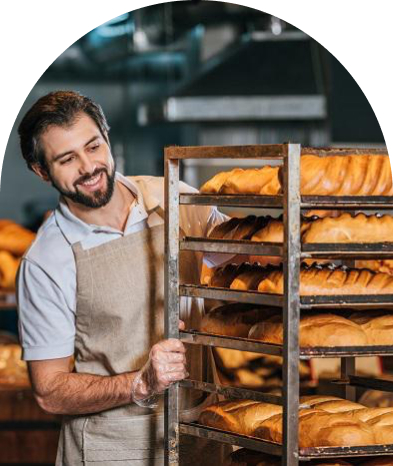
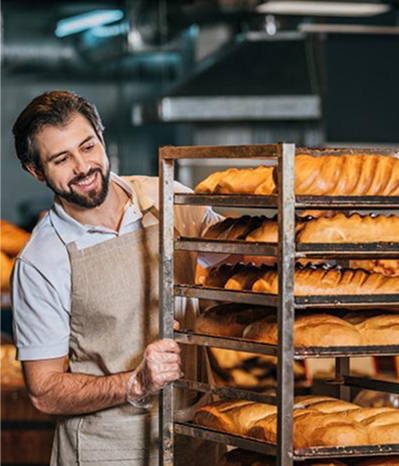
section traditions ready - html+css

diff --git a/index.html b/index.html
@@ -50,17 +50,27 @@
                 </ul>
             </div>
         </section>
-        <section>
-
-            <h2>Новий формат традиций</h2>
-            <p><span>shop bakery</span> — це пекарня, яка взяла все найкраще, і зберегла смак традиційної випічки та
-                натуральність інгредієнтів.</p>
-            <p>Ми працюємо як найвідоміші мережі —
-                <span>5 хвилин і замовлення готове.</span>
-                А ще у наших пекарень стильний дизайн
-                та висока якість обслуговування!
-            </p>
-            <img src="./images/baker-man.jpg" alt="Чоловік-пекарь дівітся на батон с посмішкой">
+        <section class="section-traditions">
+            <div class="container container-traditions">
+                <div class="traditions-descr">
+                    <h2 class="header-traditions">Новий формат традиций</h2>
+                    <p class="text-traditions"><span class="span-traditions">shop bakery</span> — це пекарня, яка взяла
+                        все
+                        найкраще, і зберегла смак традиційної випічки та
+                        натуральність інгредієнтів.</p>
+                    <div class="text-traditions-list">
+                        <p class="text-traditions">Ми працюємо як найвідоміші мережі —</p>
+                        <span class="span-traditions second-span">5 хвилин і замовлення готове.</span>
+                        <p class="text-traditions">А ще у наших пекарень стильний дизайн</p>
+                        <p class="text-traditions">та висока якість обслуговування!
+                        </p>
+                    </div>
+                </div>
+                <div class="traditions-img-block">
+                    <img class="img-traditions" src="./images/baker-man.jpg"
+                        alt="Чоловік-пекарь дівітся на батон с посмішкой">
+                </div>
+            </div>
         </section>
         <section>
             <h2>Наши найкращи шеф-кухари</h2>

diff --git a/css/styles.css b/css/styles.css
@@ -126,7 +126,12 @@ img {
   max-width: 1440px;
   padding: 0 95px;
   transition: all 0.3s ease-in-out;
-  background: rgba(18, 18, 17, 0.4);
+  background: linear-gradient(
+    to right,
+    rgba(0, 0, 0, 0.6) 38%,
+    rgba(0, 0, 0, 0.5) 30%,
+    rgba(0, 0, 0, 0.2) 100%
+  );
 }
 /* .header-nav {
 } */
@@ -226,3 +231,62 @@ img {
 }
 /* .hero-item {
 } */
+/* traditions styles */
+.section-traditions {
+  background: var(--bakery-landing-1-background);
+}
+
+.container-traditions {
+  display: flex;
+  align-items: center;
+  justify-content: space-between;
+  padding: 104px 100px 88px 100px;
+}
+.traditions-descr {
+  max-width: 620px;
+  max-height: 466px;
+  display: flex;
+  flex-direction: column;
+  gap: 42px;
+  justify-content: flex-start;
+  align-items: flex-start;
+}
+.header-traditions {
+  font-family: var(--font-family);
+  /* font-weight: 900; */
+  font-size: 64px;
+  line-height: 131%;
+  color: var(--bakery-landing-1-s1);
+}
+.text-traditions-list {
+  margin-bottom: 52px;
+}
+.text-traditions-list .text-traditions {
+  margin-bottom: 0;
+  line-height: 1.5;
+}
+.text-traditions {
+  font-family: var(--font-family);
+  font-weight: 400;
+  font-size: 18px;
+  color: var(--bakery-landing-1-s1);
+  line-height: 1.5;
+}
+.span-traditions {
+  font-family: var(--font-family);
+  font-weight: 600;
+  font-size: 18px;
+  text-transform: uppercase;
+  color: var(--bakery-landing-1-c2);
+}
+.second-span {
+  font-weight: 600;
+  color: var(--bakery-landing-1-c2);
+  text-transform: none;
+}
+/* .traditions-img-block {
+} */
+.img-traditions {
+  border-radius: 180px 200px 0 0;
+  height: 466px;
+}
